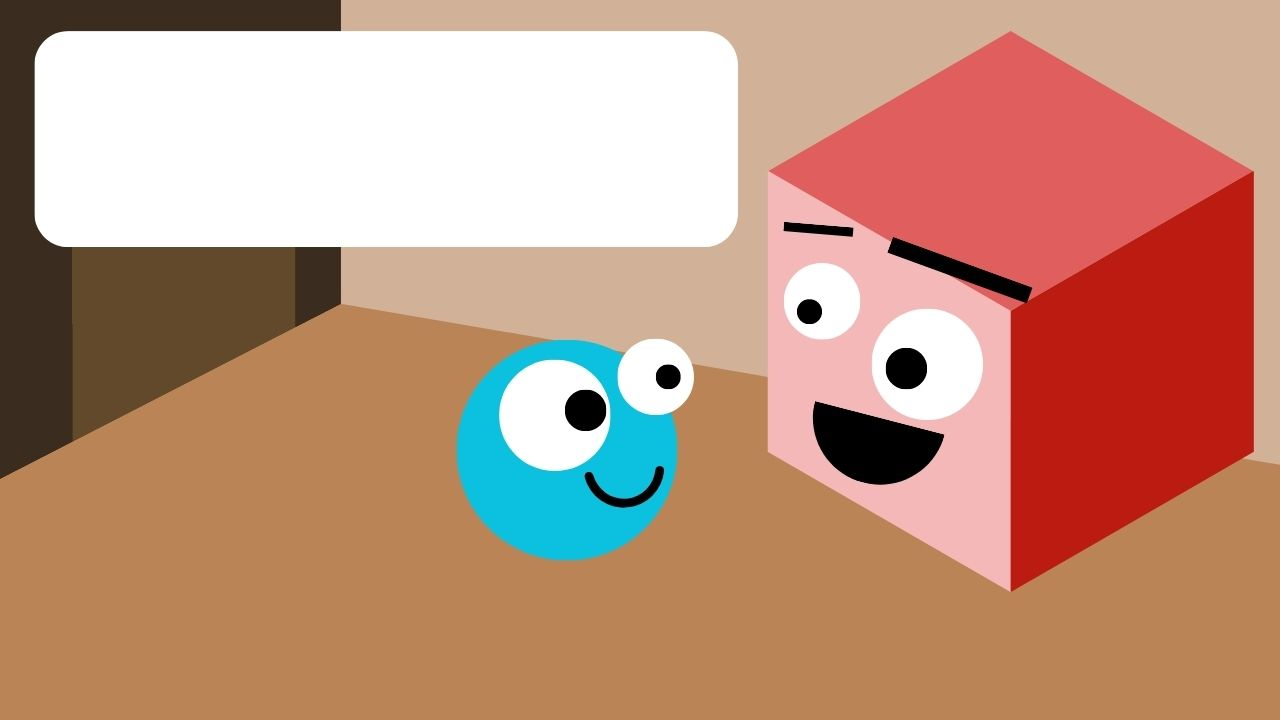
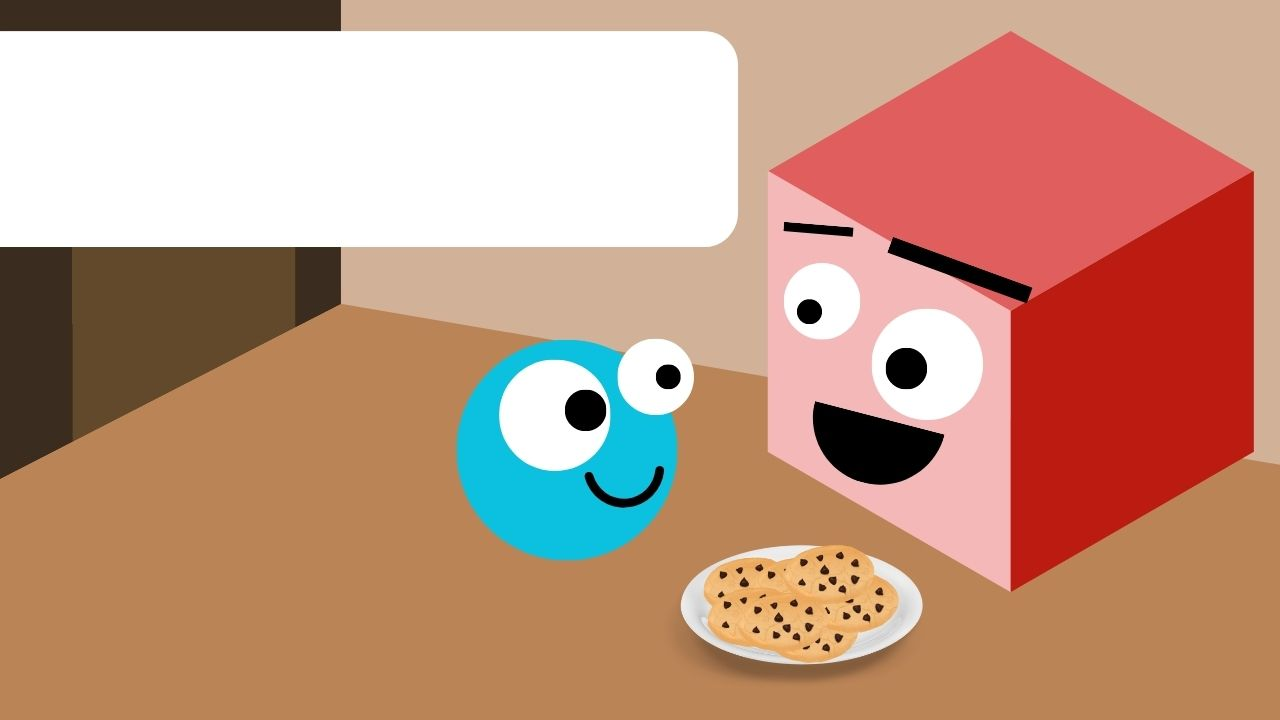
Added graphics for scene 8, 9, 10

Changed region(s): [[0.5312, 0.7333, 0.7188, 0.9472], [0.0, 0.0306, 0.0625, 0.3667]]

diff --git a/midterm.java b/midterm.java
@@ -14,6 +14,8 @@ public class midterm{
 		con.setBackgroundColor(Color.WHITE);
 		con.setTextColor(Color.BLACK); // could set to custom rgb colour
 		con.println("TEMP - Scene 0");
+		Font fntJosefin = con.loadFont("JosefinSans-Regular.ttf", 25);  // (filename, fontsize)
+		con.setTextFont(fntJosefin);
 		// SCENE 1 VARIABLES
 		String strChoice; 
 		strChoice = "";
@@ -165,8 +167,9 @@ public class midterm{
 		// Animation variables
 		int intCharacterY;
 		intCharacterY = -100;
-		// Text colour
+		// Text 
 		con.setTextColor(Color.WHITE);
+		
 		// Text
 		con.println("You woke up to find yourself drowning in an unknown liquid.");
 		con.println("It is very sticky and dense.");
@@ -271,8 +274,8 @@ public class midterm{
 	// SCENE 8
 	public static void scene8(Console con){
 		// Background
-		Font fntJosefin = con.loadFont("JosefinSans-Regular.ttf", 30);  // (filename, fontsize)
-		con.setDrawFont(fntJosefin);
+		Font fntJosefin = con.loadFont("JosefinSans-Regular.ttf", 25);  // (filename, fontsize)
+		con.setTextFont(fntJosefin);
 		BufferedImage imgScene8Background = con.loadImage("Scene8-1.jpg");
 		con.drawImage(imgScene8Background, 0, 0);
 		con.setTextColor(Color.BLACK);
@@ -282,33 +285,45 @@ public class midterm{
 		con.println("    you, \"whAt Is yOUr nAmE?\" The cube is very picky.");
 		con.println("    It then says, \"lIstEn cArEfUlly. bE AwArE Of ");
 		con.println("    yOUr sUrrOUndIngs.");
+		con.println("");
 	}
 	// SCENE 9
 	public static void scene9(Console con){
 		con.println("TEMP - Scene 9");
+		BufferedImage imgScene8Background = con.loadImage("Scene9.jpg");
+		con.drawImage(imgScene8Background, 0, 0);
+		con.println("");
 		con.println("You did not pay attention to your surroundings.");
 		con.println("The cube is mad. It eats you.");
 		con.println("Unfortunately, you will never see your home again. Game over");
 	}
 	// SCENE 10
 	public static void scene10(Console con){
-		Font fntJosefin = con.loadFont("JosefinSans-Regular.ttf", 30);  // (filename, fontsize)
-		con.setDrawFont(fntJosefin);
+		Font fntJosefin = con.loadFont("JosefinSans-Regular.ttf", 25);  // (filename, fontsize)
+		con.setTextFont(fntJosefin);
 		BufferedImage imgScene10Background = con.loadImage("Scene10-1.jpg");
 		con.drawImage(imgScene10Background, 0, 0);
 		con.setTextColor(Color.BLACK);
 		con.println("**TEMP - Scene 8");
-		con.println("**FONT NOT CHANGING FOR SOME REASON..");
-		con.println("    Before you go, the cube wants to give you a treat.");
-		con.println("    It conjures 10 cookies. The cube asks, \"How many ");
-		con.println("    do you want?\" Choose carefully because the cube has");
-		con.println("    a short temper.");
+		con.println(" ");
+		con.println("      Before you go, the cube wants to give you a treat.");
+		con.println("      It conjures 10 cookies. The cube asks, \"How many ");
+		con.println("      do you want?\" Choose carefully because the cube has");
+		con.println("      has a short temper.");
 	}
 	// SCENE 11
 	public static void scene11(Console con){
 		con.println("TEMP - Scene 11");
-		con.println("The cube decides it likes you. You survive.");
-		con.println("The cube transports you through a portal back to your home.");
+		Font fntJosefin = con.loadFont("JosefinSans-Regular.ttf", 30);  // (filename, fontsize)
+		con.setTextFont(fntJosefin);
+		BufferedImage imgScene10Background = con.loadImage("Scene11.jpg");
+		con.drawImage(imgScene10Background, 0, 0);
+		con.setTextColor(Color.BLACK);
+		con.println("**TEMP - Scene 11");
+		con.println(" ");
+		con.println("    The cube decides that it is pleased with you. You");
+		con.println("    survive. The cube transports you through a portal");
+		con.println("    back to your home.");
 	}
 	// SCENE 12
 	public static void scene12(Console con){

diff --git a/scenetester10.java b/scenetester10.java
@@ -10,16 +10,16 @@ public class scenetester10{
 	}
 	public static void scene10(Console con){
 		// Background
-		Font fntJosefin = con.loadFont("JosefinSans-Regular.ttf", 30);  // (filename, fontsize)
-		con.setDrawFont(fntJosefin);
+		Font fntJosefin = con.loadFont("JosefinSans-Regular.ttf", 25);  // (filename, fontsize)
+		con.setTextFont(fntJosefin);
 		BufferedImage imgScene10Background = con.loadImage("Scene10-1.jpg");
 		con.drawImage(imgScene10Background, 0, 0);
 		con.setTextColor(Color.BLACK);
-		con.println("TEMP - Scene 8");
-		con.println("FONT NOT CHANGING FOR SOME REASON..");
-		con.println("    Before you go, the cube wants to give you a treat.");
-		con.println("    It conjures 10 cookies. The cube asks, \"How many ");
-		con.println("    do you want?\" Choose carefully because the cube has");
-		con.println("    a short temper.");
+		con.println("**TEMP - Scene 8");
+		con.println(" ");
+		con.println("      Before you go, the cube wants to give you a treat.");
+		con.println("      It conjures 10 cookies. The cube asks, \"How many ");
+		con.println("      do you want?\" Choose carefully because the cube has");
+		con.println("      has a short temper.");
 	}
 }

diff --git a/scenetester11.java b/scenetester11.java
@@ -1,0 +1,24 @@
+import arc.*;
+import java.awt.image.BufferedImage;
+import java.awt.Color;
+import java.awt.Font; 
+
+public class scenetester11{
+	public static void main(String[] args){
+		Console con = new Console(1280,720);
+		scene10(con);
+	}
+	public static void scene10(Console con){
+		// Background
+		Font fntJosefin = con.loadFont("JosefinSans-Regular.ttf", 30);  // (filename, fontsize)
+		con.setTextFont(fntJosefin);
+		BufferedImage imgScene10Background = con.loadImage("Scene11.jpg");
+		con.drawImage(imgScene10Background, 0, 0);
+		con.setTextColor(Color.BLACK);
+		con.println("**TEMP - Scene 11");
+		con.println(" ");
+		con.println("    The cube decides that it is pleased with you. You");
+		con.println("    survive. The cube transports you through a portal");
+		con.println("    back to your home.");
+	}
+}

diff --git a/NickAdventure.java b/NickAdventure.java
@@ -3,15 +3,21 @@
 import arc.*;
 import java.awt.image.BufferedImage;
 import java.awt.Color;
+import java.awt.Font; 
+
 
 public class NickAdventure{
 	public static void main(String[] args){
 		Console con = new Console("Nick's excellent adventure", 1280, 720);
+		Font fntJosefin = con.loadFont("JosefinSans-Regular.ttf", 30);  // (filename, fontsize)
+		con.setDrawFont(fntJosefin);
 		String strChoice;
 		int intX;
 		con.setTextColor(Color.BLACK);
 		//con.println("TEMP - Scene 1 - Nick is studying for a functions test");
 		scene1(con);
+				con.setDrawFont(fntJosefin);
+
 		con.println("Does Nick \"play\" games or does he \"study\" more?");
 		strChoice = con.readLine();
 		if(strChoice.equals("play")){
